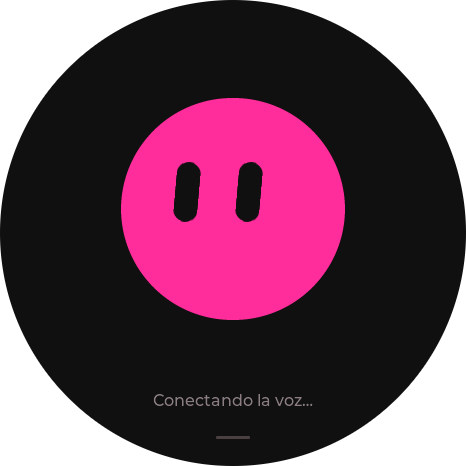
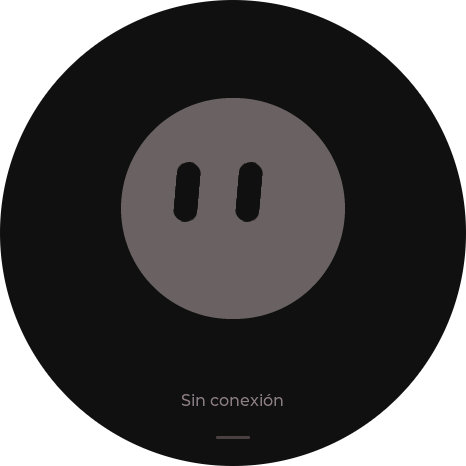
Muestra el orb en gris cuando lleva 10 s sin conexión
Antes «Sin conexión» se veía igual que «Conectando». Tras 10 s seguidos sin
enlace el orb pasa a gris y el texto dice «Sin conexión»; el margen evita
el parpadeo de los reintentos de pet_link y del arranque.

Changed region(s): [[0.2403, 0.2103, 0.7511, 0.691], [0.3305, 0.8412, 0.6609, 0.8712]]

diff --git a/firmware/pet/components/pet_ui/pet_ui.c b/firmware/pet/components/pet_ui/pet_ui.c
@@ -30,6 +30,8 @@ static bool snapshot_requested;
 static int touch_x,touch_y;
 static bool touching;
 static char last_caption[321],last_hint[64];
+static int64_t lost_at;
+static bool offline_shown;
 static lv_obj_t *voice_hint;
 static void action(pet_ui_action_kind_t kind,int value){if(callback)callback((pet_ui_action_t){kind,value},callback_context);}
 static lv_obj_t *label(lv_obj_t *parent,const char *text,int width){
@@ -144,7 +146,13 @@ static void draw(lv_timer_t *timer){
     else if(current.dialogue==PET_DIALOGUE_IDLE)text="";
     if(strcmp(last_caption,text)){snprintf(last_caption,sizeof(last_caption),"%s",text);lv_label_set_text(caption,last_caption);}
     lv_obj_set_flag(caption,LV_OBJ_FLAG_HIDDEN,!text[0]);
-    const char *hint=current.connection==PET_CONN_READY?PET_STR_HINT_TALK:PET_STR_HINT_CONNECTING;
+    /* Sin conexión solo tras 10 s seguidos sin enlace: al arrancar y en cada reintento
+     * pet_link alterna CONNECTING y OFFLINE, y el orb no debe parpadear. */
+    int64_t now=esp_timer_get_time();
+    if(current.connection==PET_CONN_READY)lost_at=0;else if(!lost_at)lost_at=now;
+    bool offline=lost_at&&now-lost_at>=10000000;
+    if(offline!=offline_shown){offline_shown=offline;lv_obj_set_style_bg_color(body,lv_color_hex(offline?0x6b6267:0xfa2c99),0);}
+    const char *hint=current.connection==PET_CONN_READY?PET_STR_HINT_TALK:offline?PET_STR_OFFLINE:PET_STR_HINT_CONNECTING;
     if(current.dialogue==PET_DIALOGUE_LISTEN)hint=PET_STR_HINT_RELEASE;
     else if(current.connection==PET_CONN_READY&&current.dialogue!=PET_DIALOGUE_IDLE)hint=PET_STR_HINT_INTERRUPT;
     if(strcmp(last_hint,hint)){snprintf(last_hint,sizeof(last_hint),"%s",hint);lv_label_set_text(voice_hint,last_hint);}

diff --git a/firmware/pet/components/pet_strings/pet_strings.h b/firmware/pet/components/pet_strings/pet_strings.h
@@ -22,6 +22,7 @@
 #define PET_STR_GREET                  "嘿，我在这里"
 #define PET_STR_HINT_TALK              "按住 BOOT 说话"
 #define PET_STR_HINT_CONNECTING        "语音连接中"
+#define PET_STR_OFFLINE                "未连接"
 #define PET_STR_HINT_RELEASE           "松开 BOOT 后提交"
 #define PET_STR_HINT_INTERRUPT         "按住 BOOT 打断"
 #define PET_STR_PASSKEY_FMT            "配对码 %06d"
@@ -67,6 +68,7 @@
 #define PET_STR_GREET                  "¡Hola, estoy aquí!"
 #define PET_STR_HINT_TALK              "Mantén BOOT para hablar"
 #define PET_STR_HINT_CONNECTING        "Conectando la voz…"
+#define PET_STR_OFFLINE                "Sin conexión"
 #define PET_STR_HINT_RELEASE           "Suelta BOOT para enviar"
 #define PET_STR_HINT_INTERRUPT         "Mantén BOOT para interrumpir"
 #define PET_STR_PASSKEY_FMT            "Código %06d"

diff --git a/sim/sim_main.c b/sim/sim_main.c
@@ -178,7 +178,7 @@ static void advance(uint64_t ms){
 static int shots(const char *dir){
     mkdir(dir,0755);
     for(int i=0;i<S_COUNT;i++){
-        virtual_ms+=60000;apply_scene((scene_t)i);advance(1400);
+        virtual_ms+=60000;apply_scene((scene_t)i);advance(i==S_OFFLINE?10600:1400);   /* pet_ui marca «sin conexión» tras 10 s */
         char path[512];snprintf(path,sizeof(path),"%s/%s.png",dir,scenes[i].id);
         if(capture(path))return 1;
     }
